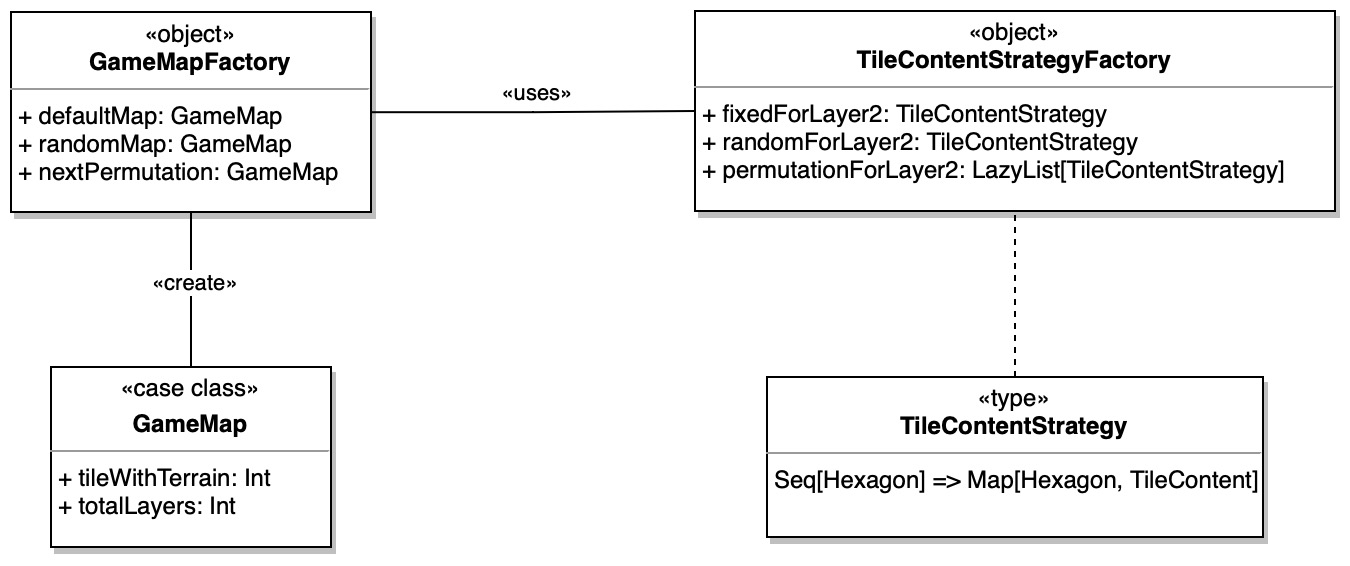
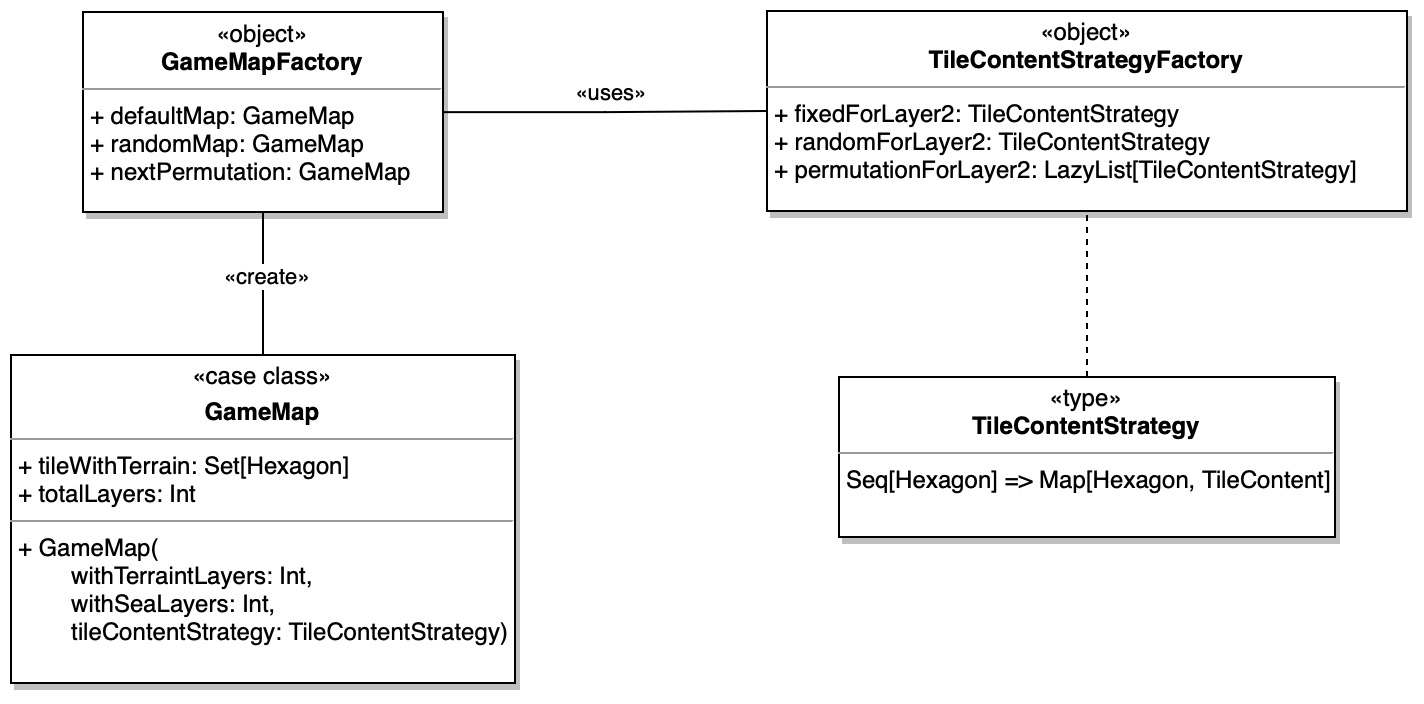
wip(docs): map design

Changed region(s): [[0.0, 0.0, 0.9956, 0.4205], [0.0, 0.4806, 0.3733, 0.9912], [0.56, 0.5106, 0.9644, 0.9611]]

diff --git a/docs/src/04-design/index.md b/docs/src/04-design/index.md
@@ -82,6 +82,69 @@ Il codice è organizzato in 5 package principali:
 
 ### Map
 
+L'analisi del dominio ha portato alla schematizzazione della mappa di gioco, con i seguenti elementi:
+
+- **Tile**: tassella esagonale che ha un contento
+- **Content**: contenuto di un Tile
+- **Spot**: incrocio tra 3 Tile adiacenti
+- **Road**: connessione tra 2 Spot vicini
+
+![Tile, Spot, Road](../img/04-design/gamemap/tile-spot-road.jpg)
+
+A fronte di ciò è stata identificata la classe `GameMap` come entrypoint per questa sotto parte di dominio. In ottica di poter espandere il campo di gioco (AOC), la mappa può essere creata con un numero di _layers_ variabile. Inoltre, per favorire la singola responsabilità dei componenti (SRP), è stato separato il concetto di struttura della mappa e ciò che un tassello può contenere: l'entità appena introdotta mette in relazione i due concetti.
+
+Da ciò ne risulta il seguente schema:
+
+![GameMap](../img/04-design/gamemap/general.jpg)
+
+#### Struttura della mappa
+
+La struttura della mappa è rappresentata dalla classe `HexagonalTiledMap`, che si occupa di una costruzione coerente, partendo dall'unità minima, l'`Hexagon`.
+
+Questo componente è basato su [_coordinate cubiche_](https://www.redblobgames.com/grids/hexagons/#coordinates) che permettono di identificare univocamente ogni tassello della mappa.
+
+A seguito della della relazione tra `HexagonalTiledMap` e `Hexagon`, quest'ultimo acquisisce il concetto di spazio con annessi metodi per posizioni relative ed assolute.
+
+![HexagonalTiledMap](../img/04-design/gamemap/hexagons.jpg)
+
+La seconda parte di `HexagonalTiledMap` concerne la vista di essa come un _grafo non orientato_:
+
+$$ G = (N, E) $$
+
+Con \\( N \\) insieme dei nodi ed \\( E \\) insieme degli archi, dove \\( E \subseteq V \times V \\).
+
+A partire da ciò è possibile identificare gli `StructureSpot` come nodi del grafo, composti da una tripla non ordinata di 3 `Hexagon` adiacenti, ed i `RoadSpot` come archi, composti da una coppia di 2 `StructureSpot` vicini.
+
+A fronte di questa modellazione nascono le seguenti implicazioni logiche:
+
+- \\( \forall r \in \texttt{Edge} \Rightarrow \\{a, b\\} \\; | \\; a, b \in \texttt{Nodes} \\)
+- \\( \forall s \in \texttt{Nodes} \Rightarrow \\{a, b, c\\} \\; | \\; a, b, c \in \texttt{Hexagons} \\)
+
+Inoltre, la distinzione tra `UndirectedGraph` e `UndirectedGraphOps` permette di separare la logica di rappresentazione del grafo da quella che contempla operazioni su di esso.
+
+![HexagonalTiledMap](../img/04-design/gamemap/graph.jpg)
+
+#### Contenuto dei tasselli
+
+Il contenuto dei tasselli, precedentemente introdotto, è ora approfondito.
+La sua funzione è quella di attribuire, ad ogni tassello della mappa, il suo contenuto, che è composto da un terreno ed un numero opzionale.
+
+I terreni possono essere di 2 tipi:
+
+- **Produttivi**: che riutilizzano il concetto di risorsa introdotto nel dominio
+- **Non produttivi**: terreni inutili ai fini della produzione di risorse, ma presenti per completare i requisiti del gioco
+
+![TileContent](../img/04-design/gamemap/tilecontent.jpg)
+
+#### Costruzione della mappa
+
+La creazione della mappa di gioco può essere effettuata attraverso la classe stessa, per libertà di scelta dell'utente, ma sono state predefinite delle _factory_ per far fronte alle esigenze più comuni, date dalle regole del gioco.
+
+Al fine di modificare la mappa, ciò che viene modificato non è la dispozione dei tasselli, ma solo il loro contenuto.
+Perciò è possibile definire delle `TileContentStrategy` che permette di modificare il contenuto dei tasselli alla costruzione della mappa stessa.
+
+![TileContent](../img/04-design/gamemap/creation.jpg)
+
 ### Components
 
 ## View
